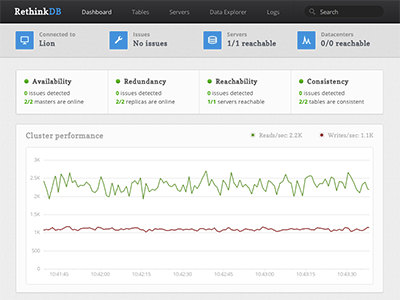
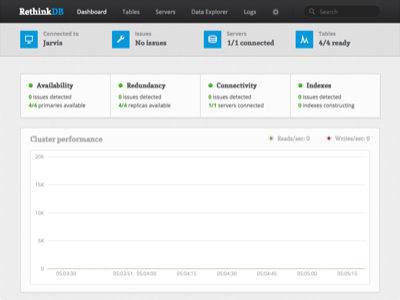
Change failover docs and images; update UI image

diff --git a/3-cluster-administration/failover.md b/3-cluster-administration/failover.md
@@ -39,17 +39,8 @@ The second option is to permanently remove the server. If a server is permanentl
 
 ## Example failover scenario using the web interface ##
 
-In this example, we have 4 servers in our cluster and one table requiring 4
-replicas and 4 acks.
-
-As soon as one server dies, the web interface reports an issue. This is what
-you would see in the webUI:
-
-![Issue on the web interface](/assets/images/docs/administration/failover1.png)
-
-If we click on the _Resolve issues_ button, we should see more information
-about the current issue.  In our case, the unreachable server is a replica
-(aka secondary) and therefore we have not lost any write availability.
+As soon as one server dies, the web interface reports an issue. If we click on the _Resolve issues_ button, we should see more information
+about the current issue. In our case, the unreachable server is a replica, and therefore we have not lost any write availability.
 
 ![Issue on the web interface](/assets/images/docs/administration/failover2.png)
 
@@ -63,32 +54,7 @@ lost. Even if we later restart a RethinkDB instance with the same data
 directory, we will not be able to reuse the data.
 {% endinfobox %}
 
-Once the server is removed, we have only three servers left in our
-cluster. Since we are requiring four replicas and four acks, the system raises
-a new error: _Unsatisfiable goals_. This error means that our replication
-requirements are not possible with the current cluster.
-
-![Issue on the web interface](/assets/images/docs/administration/failover3.png)
-
-There are two ways for us to solve this issue:
-
-- Connect a new server to the cluster
-- Lower the number of replicas and acks required
-
-If we decide to click on the _Lower replicas_ button, the system will lower the
-replicas just enough to solve the issue (in our case 3 replicas and 3 acks).
-
-{% infobox info %}
-__Note__: There can sometimes be a situation where the system has the option to
-lower the number of replicas in a specific datacenter or in the whole cluster.
-In this case, there is no way for the system to know which option is preferred, so
-it will require the user to reduce the number of replicas manually.
-{% endinfobox %}
-
-Once the number of replicas has been reduced, there are no remaining issues in
-our cluster and the warning disappears.
-
-![Issue on the web interface](/assets/images/docs/administration/failover4.png)
+Once the server is removed, the problem is resolved--the tables that had replicas on that server will be reconfigured automatically. Note, however, that if you connect a new server, the table will not automatically be reconfigured to take advantage of it--you will need to reconfigure the table manually.
 
 ## Permanently removing a server with ReQL ##
 
